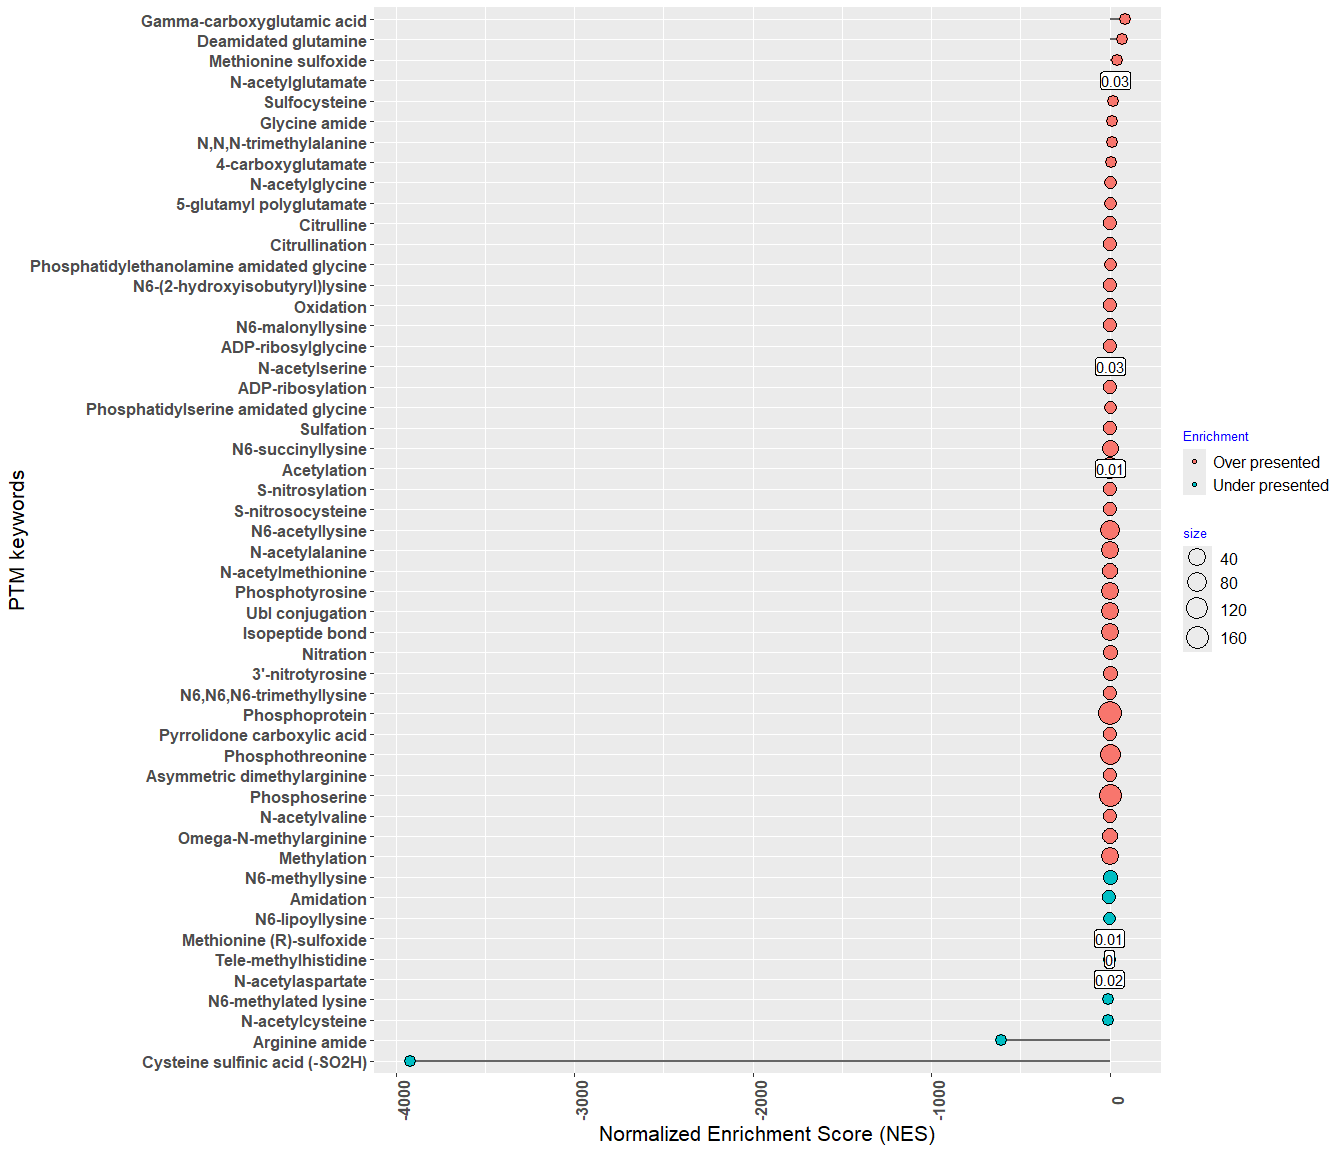
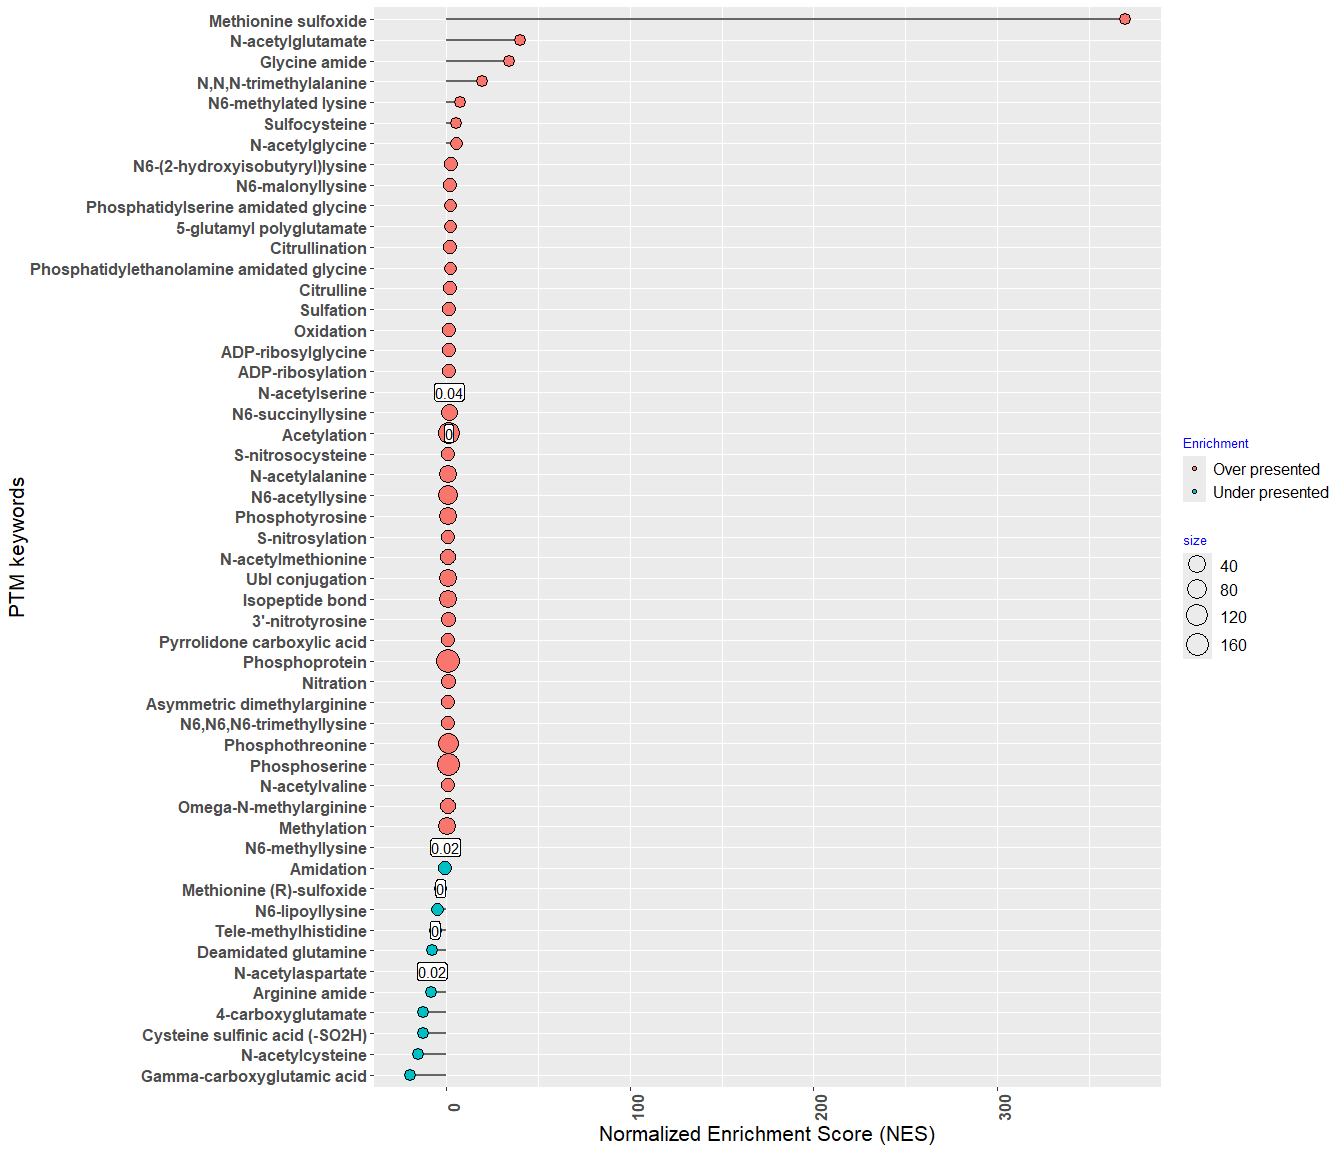
Remove unnecessary files

diff --git a/README.md b/README.md
@@ -117,13 +117,13 @@ head(psea_res[[1]], n = 6)
     ## 4              N-acetylaspartate    0       0                1            1
     ## 5              N-acetylglutamate    0       0                1            1
     ## 6                N6-acetyllysine    0       0              997           74
-    ##           ES          NES nMoreExtreme size      Enrichment
-    ## 1  0.7472783     1.181497            1  124  Over presented
-    ## 2  0.7707317     1.598456           27    4  Over presented
-    ## 3  0.9423077 -3920.000000            7    1 Under presented
-    ## 4 -0.9615385    -5.422993            2    1 Under presented
-    ## 5 -0.9663462    31.162791            3    1  Over presented
-    ## 6  0.7149518     1.118809            7   74  Over presented
+    ##           ES        NES nMoreExtreme size      Enrichment
+    ## 1  0.7472783   1.179016            0  124  Over presented
+    ## 2  0.7707317   1.436098           33    4  Over presented
+    ## 3  0.9423077 -12.750000           11    1 Under presented
+    ## 4 -0.9615385  -7.968442            2    1 Under presented
+    ## 5 -0.9663462  40.119760            5    1  Over presented
+    ## 6  0.7149518   1.129027            6   74  Over presented
     ##                                                                                                                                                                                                                                                                                                                                                                                                                                                                                                                                                                                                                                                                                                                                                                                                                                                                                                                                                                                                                               AC
     ## 1 P0C1X8; P11030; P60711; P63259; Q63028; Q62847; Q62848; Q9WUC4; P31399; P29419; P21571; P15999; D3ZAF6; Q9JJW3; O08839; P0DP29; P0DP30; P0DP31; P18418; P26772; P63039; B0K020; P08081; P08082; P45592; Q91ZN1; P11240; Q63768; P10715; P62898; Q9JHL4; Q7M0E3; P62628; Q07266; P84060; P62870; P15429; P07323; P60841; P56571; B0BN94; P55053; P55051; P07483; Q62658; Q32PX7; Q99PF5; Q5XI73; Q63228; P62994; P01946; P02091; P11517; P62959; P82995; P34058; P27321; Q5XI72; P50411; Q6AXU6; Q5BK20; P11980; Q99MZ8; Q792I0; Q66HF9; P15205; Q5M7W5; P30009; P02688; B0BN72; P30904; O35763; P62775; Q71UE8; Q9JJ19; P13084; Q01205; P08461; Q920Q0; O88767; P04785; P31044; O55012; P10111; Q6J4I0; Q9R063; Q9EPC6; P02625; Q63475; P51583; Q68A21; P02401; P62982; P62859; Q6RJR6; Q9JK11; Q63945; B0BN85; P07632; Q66HL2; P28042; O35814; P13668; P37377; Q62880; P19332; P68370; Q6P9V9; Q6AYZ1; Q68FR8; Q5XIF6; Q6PEC1; P11232; P62076; P62078; Q9WV97; P48500; P04692; P58775; Q63610; P09495; Q7M767; Q9Z1A5; P63045
     ## 2                                                                                                                                                                                                                                                                                                                                                                                                                                                                                                                                                                                                                                                                                                                                                                                                                                                                                                                                                                                                 P62986; P62982; P0CG51; Q63429
@@ -161,22 +161,25 @@ psea2mass(x = psea_res, sig.level = 0.05)
 
     ##      MOD_ID                       name
     ## 1 MOD:00060          N-acetyl-L-serine
-    ## 2 MOD:00322      1'-methyl-L-histidine
-    ## 3 MOD:00720 L-methionine (R)-sulfoxide
-    ## 4 MOD:00051   N-acetyl-L-aspartic acid
-    ## 5 MOD:00052        N-acetyl-L-cysteine
-    ## 6 MOD:00053   N-acetyl-L-glutamic acid
+    ## 2 MOD:00085         N6-methyl-L-lysine
+    ## 3 MOD:00322      1'-methyl-L-histidine
+    ## 4 MOD:00720 L-methionine (R)-sulfoxide
+    ## 5 MOD:00051   N-acetyl-L-aspartic acid
+    ## 6 MOD:00052        N-acetyl-L-cysteine
+    ## 7 MOD:00053   N-acetyl-L-glutamic acid
     ##                                                                                                                                                                                                         def
     ## 1  "converts an L-serine residue to N-acetyl-L-serine." [PubMed:11857757, PubMed:11999733, PubMed:12175151, PubMed:14730666, PubMed:15350136, PubMed:1880797, PubMed:2106685, PubMed:6997045, RESID:AA0051]
-    ## 2                              "converts an L-histidine residue to tele-methyl-L-histidine." [PubMed:10601317, PubMed:11474090, PubMed:11875433, PubMed:6692818, PubMed:8076, PubMed:8645219, RESID:AA0317]
-    ## 3                                             "oxygenates an L-methionine residue to L-methionine sulfoxide R-diastereomer." [ChEBI:45764, PubMed:21406390, PubMed:22116028, PubMed:23911929, RESID:AA0581]
-    ## 4                                                                            "converts an L-aspartic acid residue to N-acetyl-L-aspartic acid." [ChEBI:21547, PubMed:1560020, PubMed:2395459, RESID:AA0042]
-    ## 5 "converts an L-cysteine residue to N-acetyl-L-cysteine." [ChEBI:28939, PubMed:11857757, PubMed:11999733, PubMed:12175151, PubMed:14730666, PubMed:1500421, PubMed:15350136, PubMed:6725286, RESID:AA0043]
-    ## 6                                                                                            "converts an L-glutamic acid residue to N-acetyl-L-glutamic acid." [ChEBI:17533, PubMed:6725286, RESID:AA0044]
+    ## 2                                                            "converts an L-lysine residue to N6-methyl-L-lysine." [ChEBI:17604, DeltaMass:165, PubMed:11875433, PubMed:3926756, RESID:AA0076, Unimod:34#K]
+    ## 3                              "converts an L-histidine residue to tele-methyl-L-histidine." [PubMed:10601317, PubMed:11474090, PubMed:11875433, PubMed:6692818, PubMed:8076, PubMed:8645219, RESID:AA0317]
+    ## 4                                             "oxygenates an L-methionine residue to L-methionine sulfoxide R-diastereomer." [ChEBI:45764, PubMed:21406390, PubMed:22116028, PubMed:23911929, RESID:AA0581]
+    ## 5                                                                            "converts an L-aspartic acid residue to N-acetyl-L-aspartic acid." [ChEBI:21547, PubMed:1560020, PubMed:2395459, RESID:AA0042]
+    ## 6 "converts an L-cysteine residue to N-acetyl-L-cysteine." [ChEBI:28939, PubMed:11857757, PubMed:11999733, PubMed:12175151, PubMed:14730666, PubMed:1500421, PubMed:15350136, PubMed:6725286, RESID:AA0043]
+    ## 7                                                                                            "converts an L-glutamic acid residue to N-acetyl-L-glutamic acid." [ChEBI:17533, PubMed:6725286, RESID:AA0044]
     ##   FreqinSample
     ## 1           11
-    ## 2            2
+    ## 2            9
     ## 3            2
-    ## 4            1
+    ## 4            2
     ## 5            1
     ## 6            1
+    ## 7            1
